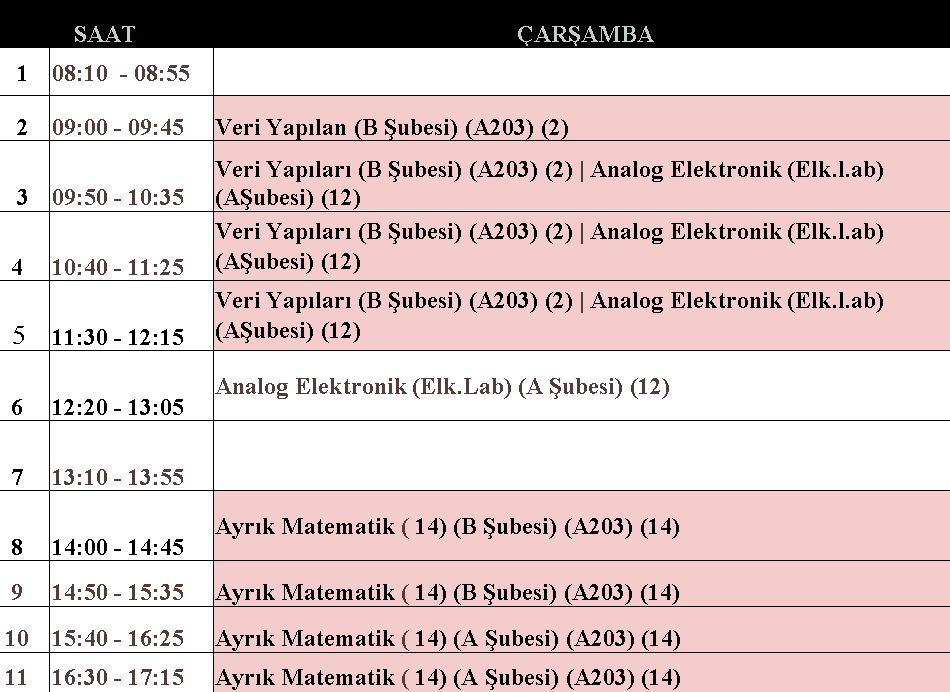
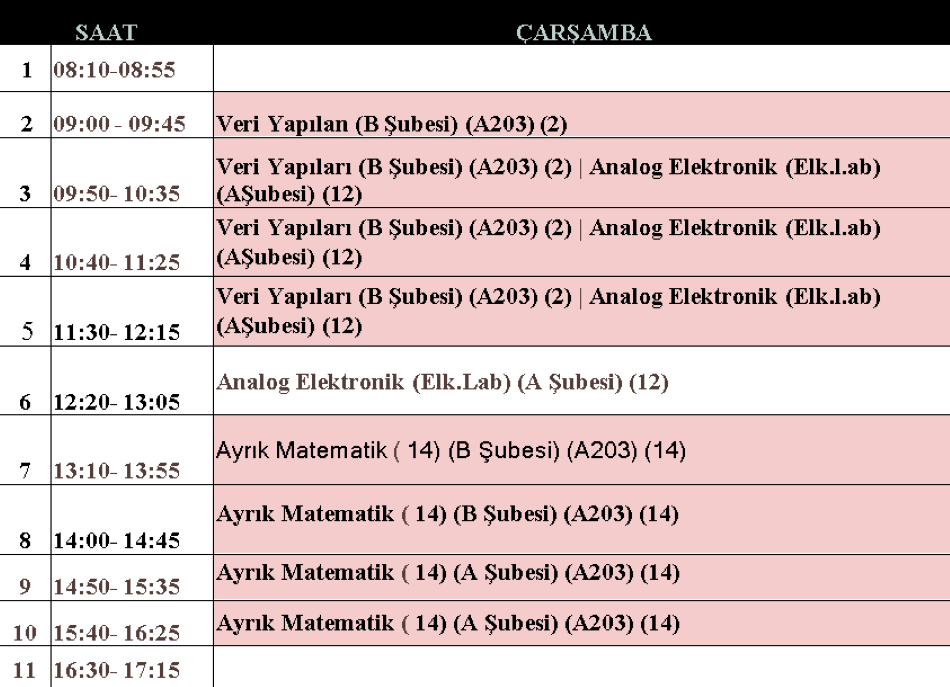
ders programında değişiklik oldu

Changed region(s): [[0.0, 0.0306, 1.0, 1.0]]

diff --git a/sayfalar/ders-programi.html b/sayfalar/ders-programi.html
@@ -113,6 +113,83 @@
             font-size: 40px;
 
         }
+        
+
+      /* PC için düzenlemeler */
+@media only screen and (min-width: 601px) {
+  th, td {
+    font-size: 20px; /* PC için büyük yazı boyutu */
+    padding: 20px;
+  }
+
+  h2 {
+    font-size: 50px; /* PC için büyük başlık boyutu */
+  }
+
+  .slider-container {
+    width: 60%; /* PC'de slider genişliği %60 */
+    margin-top: 100px; /* PC'de daha büyük boşluk */
+    margin-left: auto;
+    margin-right: auto; /* Ortalamak için */
+  }
+
+  .slides {
+    height: 600px; /* PC'de büyük slider */
+    
+  }
+
+  .prev, .next {
+    padding: 20px; /* PC'de büyük oklar */
+    margin-top: 50px;
+    font-size: 40px;
+  }
+
+  .table-container {
+    width: 60%; /* PC'de tablo genişliği %60 */
+    margin-left: auto;
+    margin-right: auto; /* Ortalamak için */
+  }
+}
+
+      /* tablet için düzenlemeler */
+      @media only screen and (max-width: 601px) {
+  th, td {
+    font-size: 15px; /* PC için büyük yazı boyutu */
+    padding: 20px;
+  }
+
+  h2 {
+    font-size: 50px; /* PC için büyük başlık boyutu */
+  }
+
+  .slider-container {
+    width: 80%; /* PC'de slider genişliği %60 */
+    margin-top: 100px; /* PC'de daha büyük boşluk */
+    margin-left: auto;
+    margin-right: auto; /* Ortalamak için */
+  }
+
+  .slides {
+    height: 400px; /* PC'de büyük slider */
+  }
+
+  .prev, .next {
+    padding: 20px; /* PC'de büyük oklar */
+    margin-top: 50px;
+    font-size: 40px;
+  }
+
+  .table-container {
+    width: 80%; /* PC'de tablo genişliği %60 */
+    margin-left: auto;
+    margin-right: auto; /* Ortalamak için */
+  }
+}
+
+
+
+
+
 
     </style>
   </head>
@@ -158,7 +235,7 @@
         <tr class="wednesday">
           <td>Ayrık M.</td>
           <td>A203</td>
-          <td>15.40-17.15</td>
+          <td>14.40-16.15</td>
         </tr>
 
         <tr>
